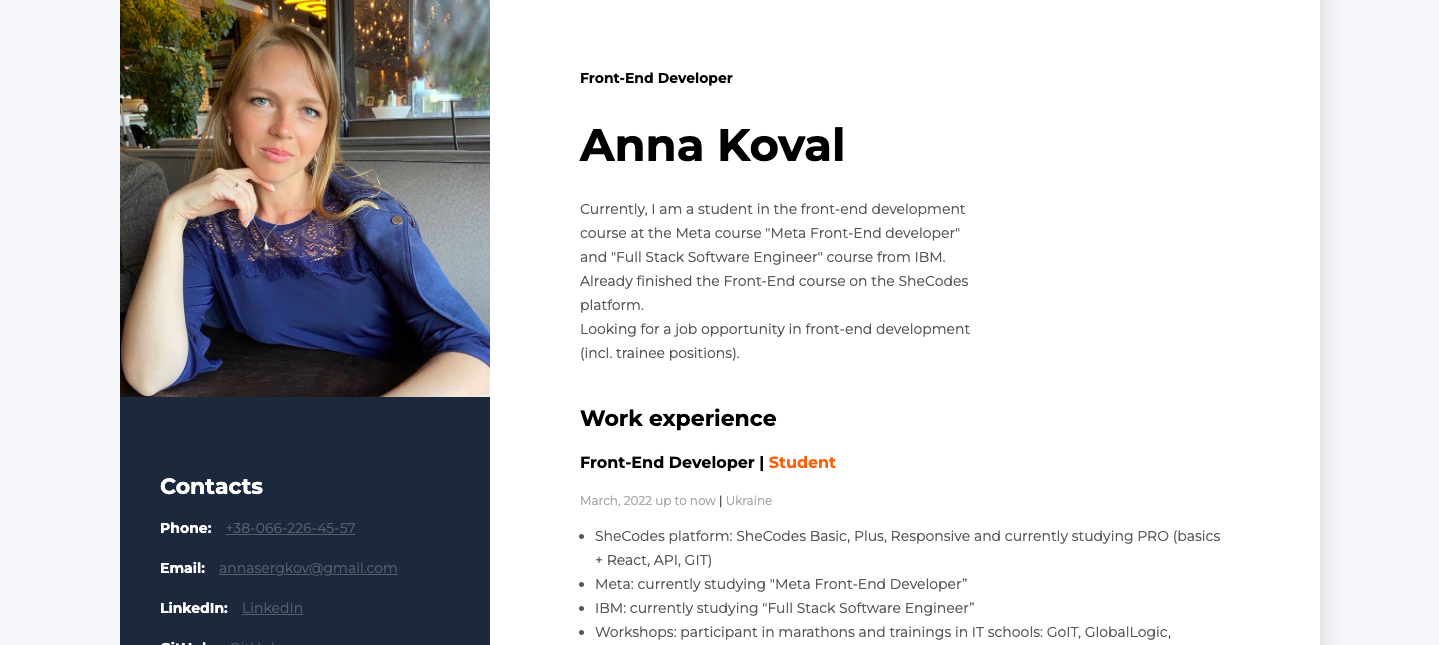
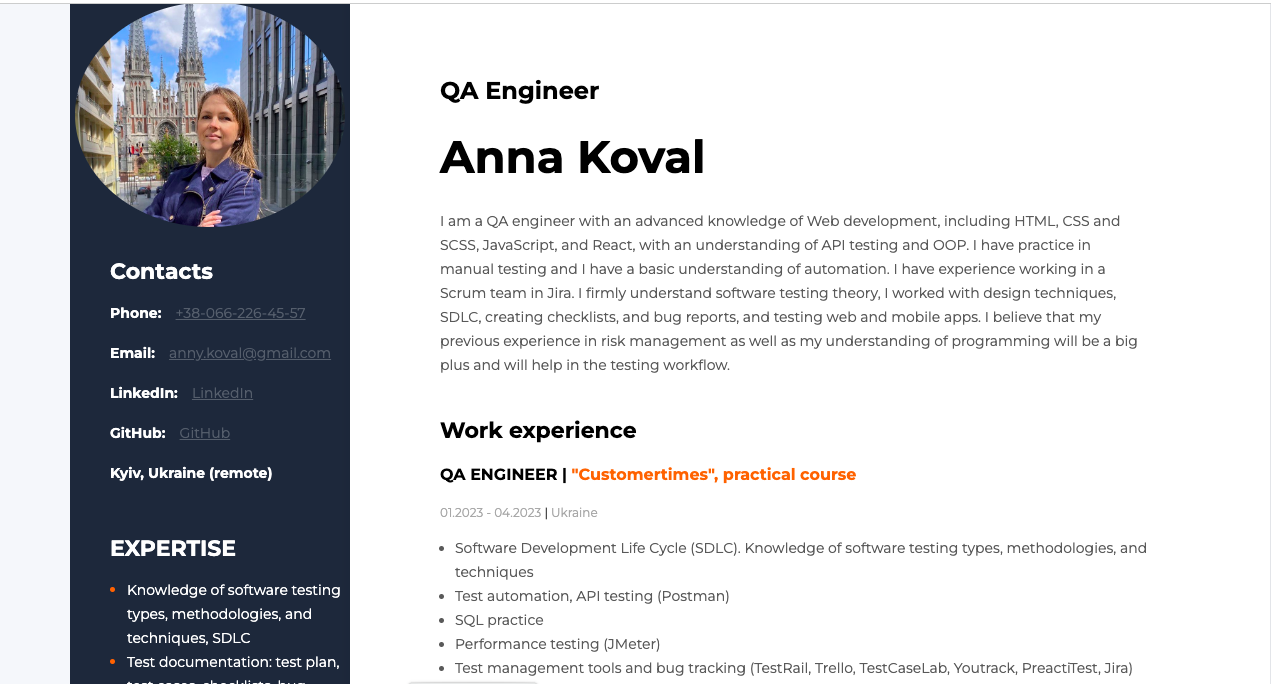
added information

Changed region(s): [[0.0307, 0.0, 0.9205, 1.0], [0.8899, 0.0, 0.9205, 0.031]]

diff --git a/about.html b/about.html
@@ -72,21 +72,13 @@
           <br />
 
           <p class="mb-5 author-story">
-            For the last 6 months, I’ve been freelancing as a web developer creating responsive web pages for private clients. I have used my skills in HTML, SCSS, Bootstrap, Tailwind, JS, React, and hosting to complete them.
-I am currently finished a "Front-End Development" course by “Mate Academy” working on advanced JS, TypeScript, and React. I have already learned how to create pixel-perfect landing pages using BEM, SCSS, and clear code.
-<br>
-<br>
-For now, I am learning QA in the course from the company “Customertimes” and looking for job opportunities in QA manual or QA automation.
-<br>
-<br>
-Prior to this have graduated from a course by SoftServe - "Development, Design, and Architecture of modern software systems based on object-oriented languages", a "Front-End Development" course by Meta, and "Full Stack Software Engineer" IBM, and participated in SheCodes Bootcamp. 
-Before discovering my interest in web development I had worked at banks in the Corporate Credit Risk Department for about 10 years. This experience has taught me profound analytical skills, teamwork, and risk management. All these skills make me a better professional and I’m looking forward to applying them in my new sphere.
-
-I've already created some projects with this stack, for example, I have a weather project on JavaScript using API and the same weather project on React, also I have a Dictionary project on React, using API. As I mentioned before, I have 2 interesting responsive landings, using BEM and SCSS. 
+            I am a QA engineer with an advanced knowledge of Web development, including HTML, CSS and SCSS, JavaScript, and React, with an understanding of API testing and OOP. I have practice in manual testing and I have a basic understanding of automation.
+I have experience working in a Scrum team in Jira. I firmly understand software testing theory, I worked with design techniques, SDLC, creating checklists, and bug reports, and testing web and mobile apps.
+I believe that my previous experience in risk management as well as my understanding of programming will be a big plus and will help in the testing workflow.
             <br />
             <br>
             <a
-              href="https://drive.google.com/file/d/1a0jZugYxkEzJzTx-c0sKsq35hLwDZmSv/view?usp=sharing"
+              href="https://drive.google.com/file/d/1VmptudcbUM2ZJeaj1xs5cKJS_peMoGXo/view?usp=share_link"
               target="_blank"
               class="link-cv"
             >

diff --git a/projects.html b/projects.html
@@ -263,7 +263,7 @@
           </p>
         </div>
          <div class="col-sm align-self-center mb-5">
-          <a href="https://annakoval-cv.netlify.app/" target="_blank">
+          <a href="https://annakoval-qa-cv.netlify.app/" target="_blank">
           <img
             src="images/6.png"
             alt="Project CV image"

diff --git a/index.html b/index.html
@@ -45,7 +45,7 @@
       </h1>
        <div class="typing">
           <div class="typing-effect">
-            FRONT-END DEVELOPER
+            PORTFOLIO
           </div>
         </div>
       <div class="header-buttons">
